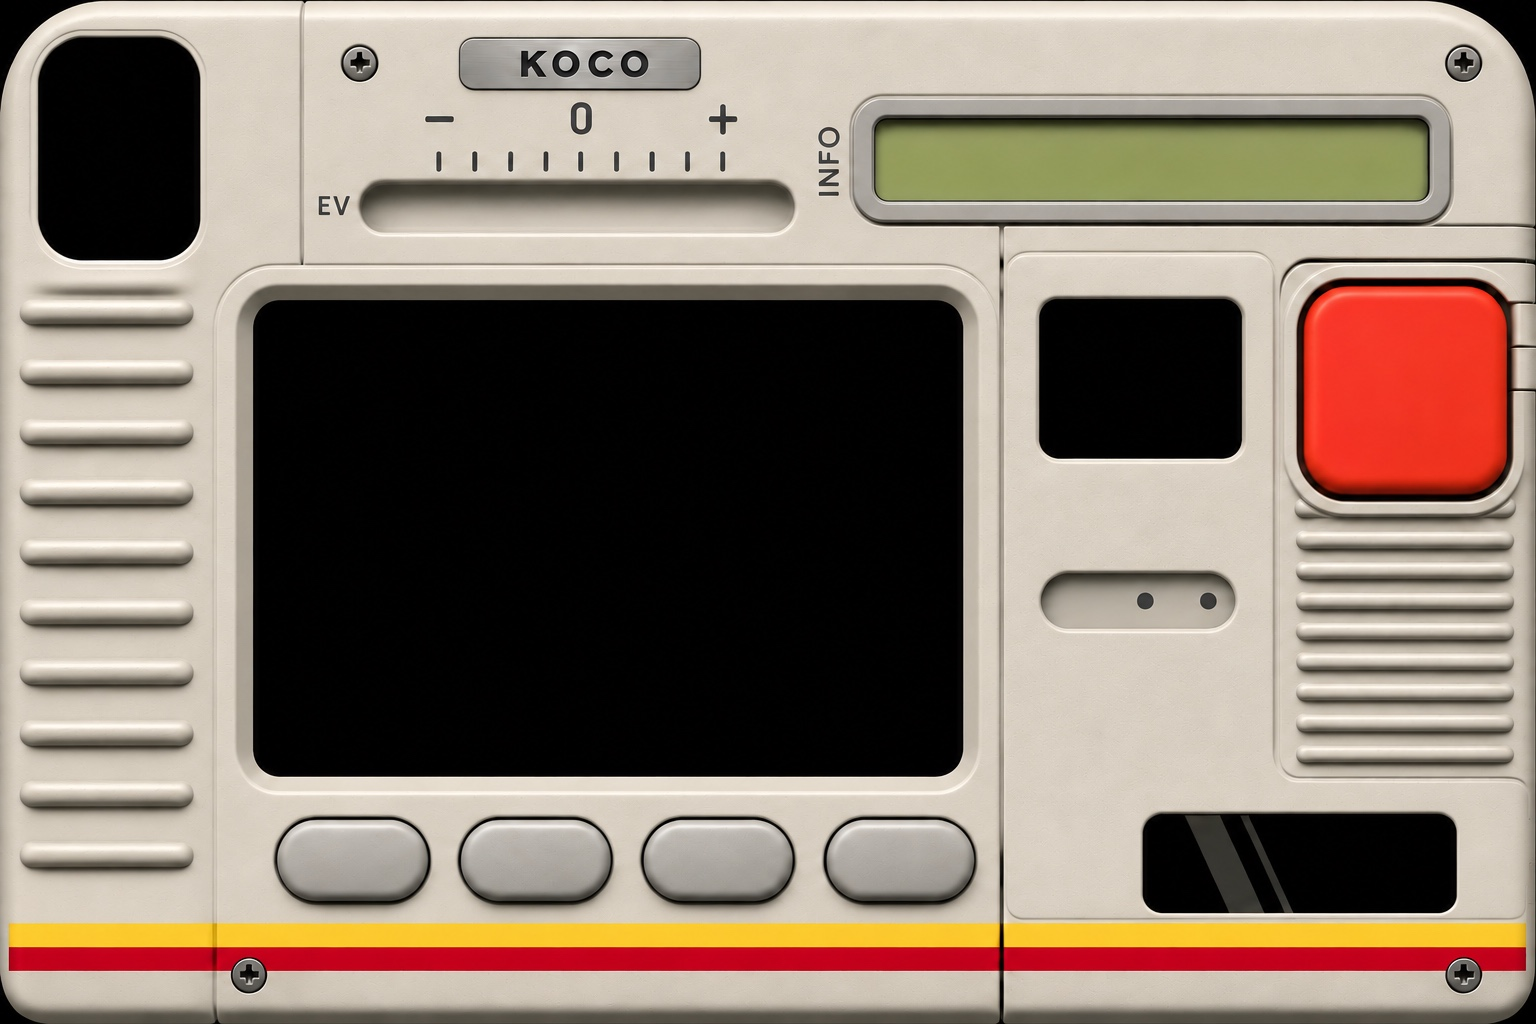
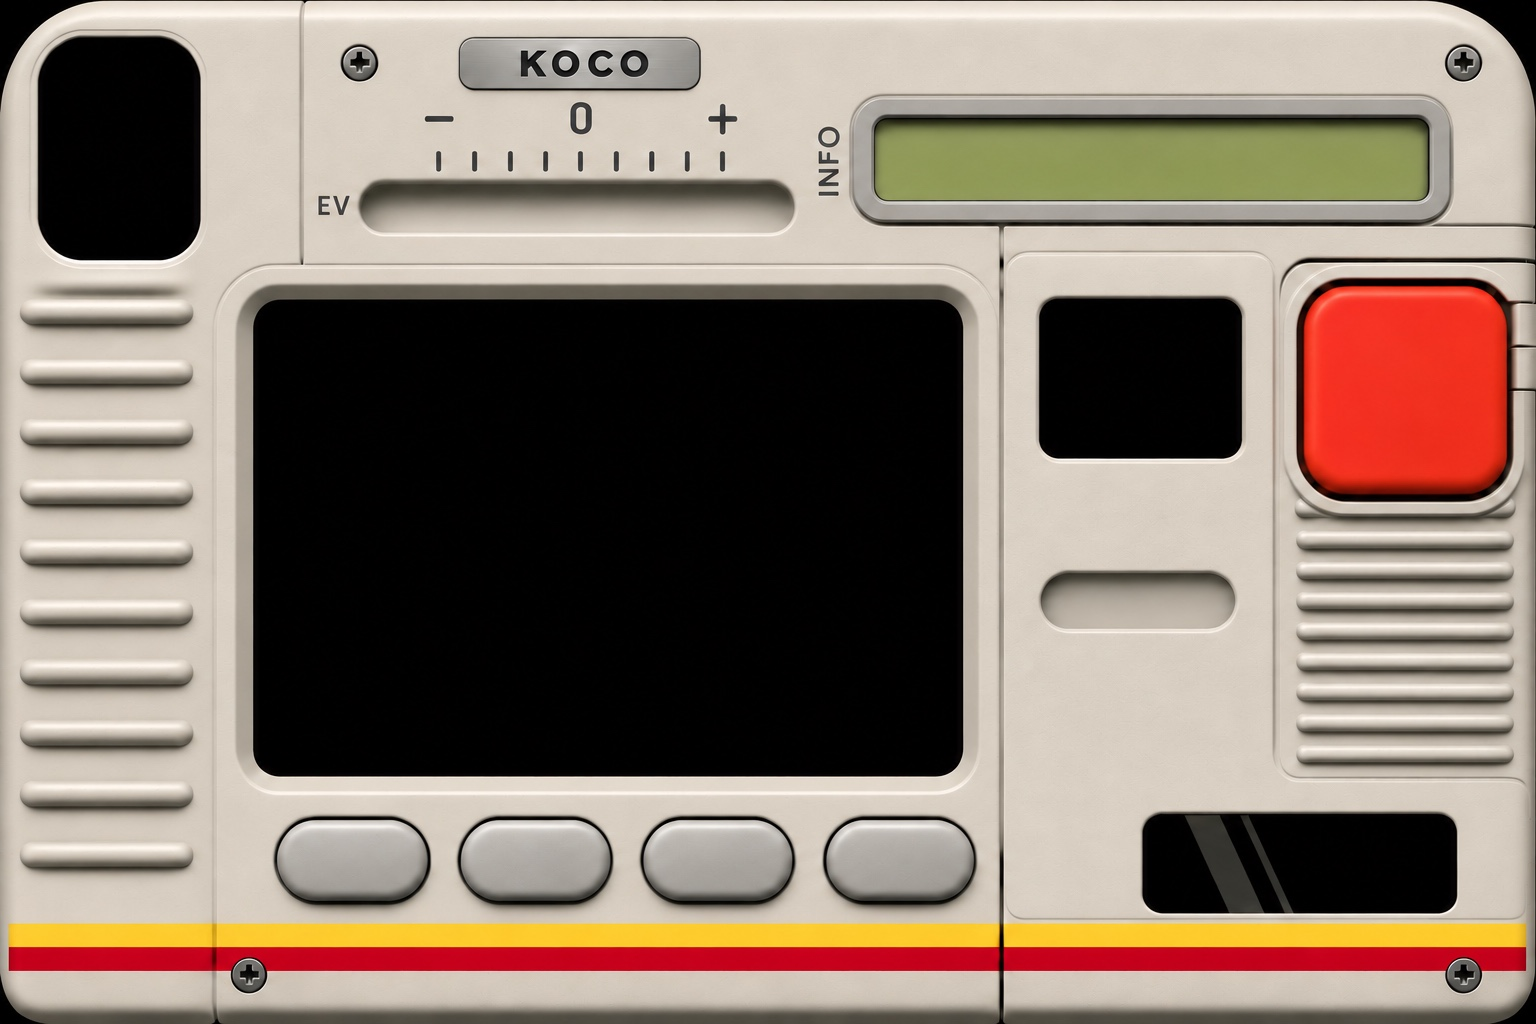
Body colour switch: one clean empty slot on every body, printed position marks beside it (build 109)

Changed region(s): [[0.7812, 0.5625, 0.8125, 0.5938], [0.7188, 0.5625, 0.75, 0.5938]]

diff --git a/cameragr/Model/BodyTheme.swift b/cameragr/Model/BodyTheme.swift
@@ -58,3 +58,34 @@ extension BodyTheme {
         return made
     }
 }
+
+/// What a real two-position slide switch has beside its empty slot: a
+/// printed mark for each position (solid dot = dark body, ring = light body).
+/// Both marks are always there; only the knob moves.
+struct SwitchMarks: View {
+    /// Mark centres in the 1536×1024 body picture: x of the two positions
+    /// (the knob's resting centres) and the shared y, just under the slot.
+    static let leftX: CGFloat = 1076
+    static let rightX: CGFloat = 1196
+    static let y: CGFloat = 658
+    static let diameter: CGFloat = 11
+    /// Where the picture's point (0, 0) is in this view's own coordinates.
+    let scale: CGFloat
+    let origin: CGPoint
+    @ObservedObject private var theme = BodyTheme.shared
+
+    var body: some View {
+        let d = Self.diameter * scale
+        let y = origin.y + Self.y * scale
+        Color.clear.overlay(alignment: .topLeading) {
+            ZStack(alignment: .topLeading) {
+                Circle().fill(theme.labelInk).frame(width: d, height: d)
+                    .offset(x: origin.x + Self.leftX * scale - d / 2, y: y - d / 2)
+                Circle().strokeBorder(theme.labelInk, lineWidth: max(1.5 * scale, 1)).frame(width: d, height: d)
+                    .offset(x: origin.x + Self.rightX * scale - d / 2, y: y - d / 2)
+            }
+        }
+        .allowsHitTesting(false)
+        .accessibilityHidden(true)
+    }
+}

diff --git a/cameragr/UI/UprightCamera.swift b/cameragr/UI/UprightCamera.swift
@@ -447,6 +447,7 @@ private struct UprightSwitch: View {
             let knob = BodyTheme.knobSize
             let at = theme.isLight ? BodyTheme.trackKnobRight : BodyTheme.trackKnobLeft
             ZStack(alignment: .topLeading) {
+                SwitchMarks(scale: s, origin: CGPoint(x: -cut.minX * s, y: -cut.minY * s))
                 Image(uiImage: theme.trackSprite).resizable().interpolation(.high)
                     .mask {
                         RoundedRectangle(cornerRadius: 30 * s).padding(6 * s).blur(radius: 3 * s)

diff --git a/cameragr/UI/CameraScreen.swift b/cameragr/UI/CameraScreen.swift
@@ -1582,6 +1582,7 @@ private struct BodySwitch: View {
         let track = plate.rect(Plate.switchTrack)
         let knob = plate.rect(CGRect(origin: .zero, size: Plate.switchKnob))
         ZStack(alignment: .topLeading) {
+            SwitchMarks(scale: plate.scaleX, origin: CGPoint(x: plate.x(0), y: plate.rect(CGRect(x: 0, y: 0, width: 1, height: 1)).minY))
             Image(uiImage: theme.art("body_knob.png"))
                 .resizable().interpolation(.high)
                 .frame(width: knob.width, height: knob.height)
